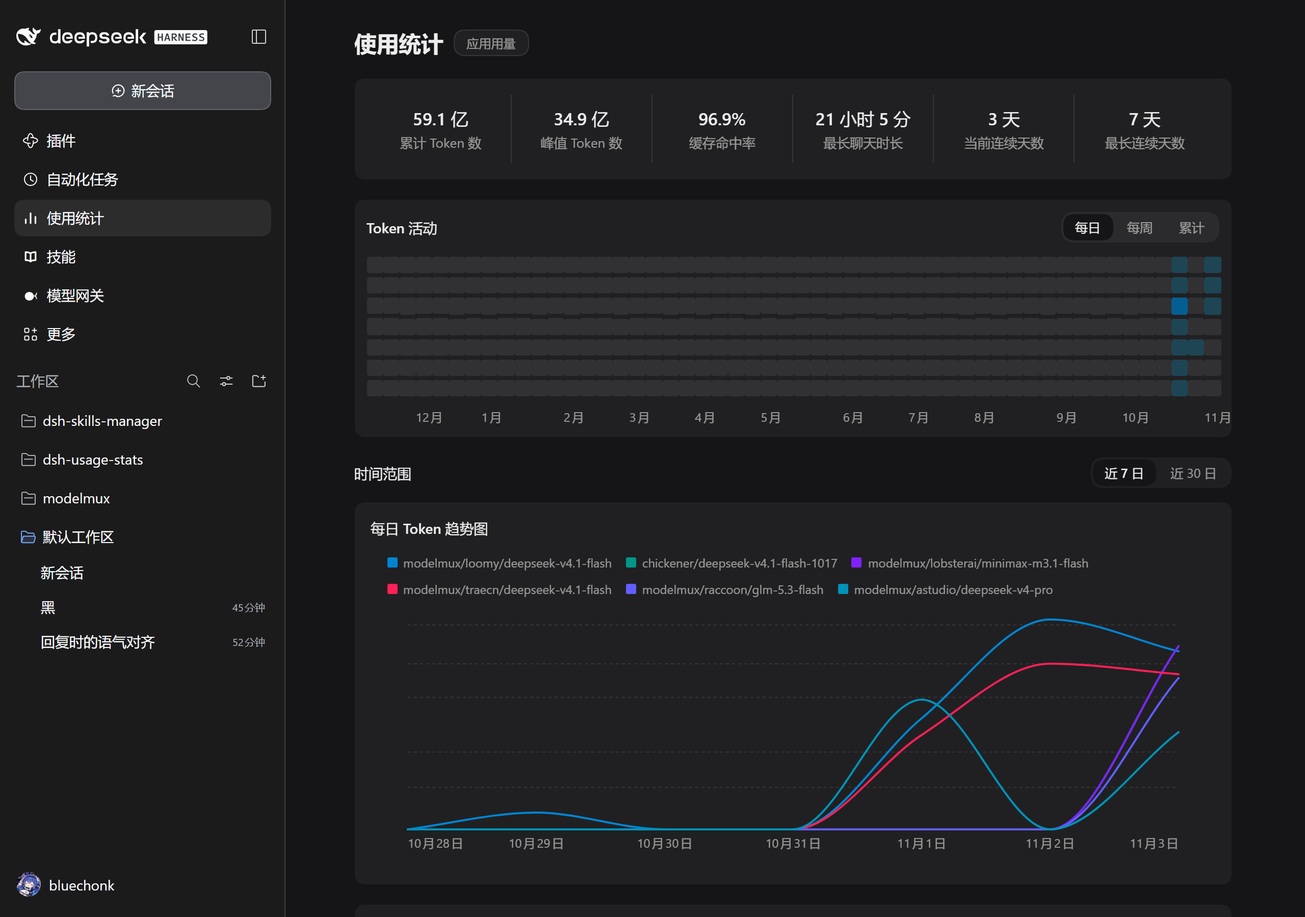
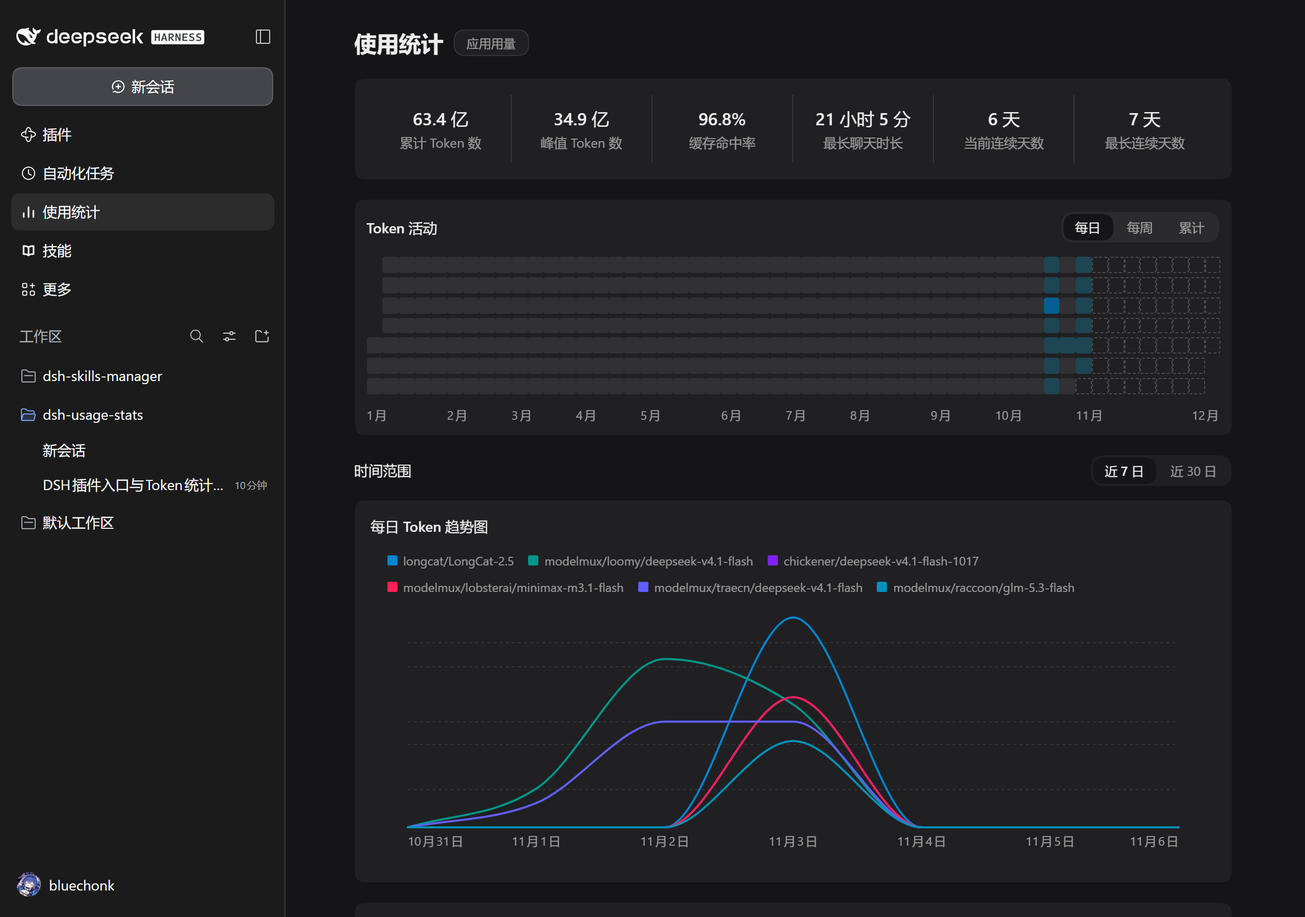
feat(ui): 热力图改为自然年 1–12 月布局，未到日期走虚线占位 (#9)
## 为什么

热力图此前是「滚动 52 周」窗口，末列对齐当前周。11 月打开时图表右端停在 11 月，看起来像一张 11–11 的图，读不出「这一年到 12 月还有大半没走完」；且窗口随当天滚动，同一个月里月份标签会整体平移，跨月时左侧再裁掉一段，位置不稳定。

未来日期（今年今天之后）此前与「有用量为 0 的已过日期」渲染完全相同：同一个实心灰格、同样可悬停。两者语义完全不同——一个是还没发生，一个是真的没用量——视觉上却无法区分。

## 改了什么

- `hmColumnsOf`：口径由「末周对齐当前周、回溯 52 周」改为「`1/1` 所在周日起到 `12/31` 所在周止」，列数随年份 52~54，左端恒为 1 月、右端恒为 12 月。每格新增 `inYear`（是否属于当年）与 `future`（是否还没到）两个标记；年外日不参与统计。周数按整周取整计算，避免跨 DST 的毫秒差把 52 算成 52.99 丢一列。
- `hmRenderOf`：格状态分 `past` / `future` / `out` 三态。每日档逐格判未来，每周/累计档按整列判——列内只要还有未来日就整列走虚线，逐格虚线会把柱子打碎成看起来像坏数据的锯齿。未来格不带色阶、不弹卡片。
- `HeatmapCard`：网格与月份行的 `gridTemplateColumns` 按实际列数内联下发（CSS 的 `repeat(52, …)` 退回首帧占位）；键盘游标默认位置由固定偏移 `51*7 + 星期几` 改为在列阵里查「今天」的真实索引，年历布局下今天的位置逐月变化，固定偏移会指到 1 月附近。
- `hmMonthLabelsOf`：锚点跳过不属当年的日子；整周年外的列并入上一段，跨年尾列不会另起一个「1月」。
- CSS：新增 `--dus-hmfuture`（深浅两档）与 `.dus-hmCellFuture`（如虚线空心、不参与悬停放大）、`.dus-hmCellOut`（`visibility:hidden` 只占位）。

## 顺带修的 bug

每周/累计档的整列 tooltip 原本锚定列内第 7 格（周六），当周还没到周六时会把「本周六」当成数据结束日，报出一个未来日期。改为锚定列内最后一个「已到」的当年日。

## 验证

- `npm run check` 通过；`npm test` 166 项全绿（原 163 项，热力图相关断言按新年历口径重写，新增渲染冒烟锁住「未来格虚线 / 已过格填色 / 年外格不画」三态）。
- dsh web 真机核对（临时 profile + agent-browser）：月份标签为 `1月|2月|…|12月` 共 11 个分隔、网格 53 列（2026 年），未来格 55 个、年外格 6 个；未来格 `border-top-style: dashed`、背景透明，已过格带色阶。每日/每周/累计三档、深浅两主题均逐一目检。
- 文档三张截图按新热力图重拍。

diff --git a/lib/client.js b/lib/client.js
@@ -77,7 +77,7 @@ window.__ModuleLoader__.load({
         heatmapModeDaily: "每日",
         heatmapModeWeekly: "每周",
         heatmapModeTotal: "累计",
-        heatmapAriaLabel: "Token 活动热力图，最近 52 周，共 {days} 天有用量。用 ← → 切换周、↑ ↓ 切换日。",
+        heatmapAriaLabel: "Token 活动热力图，{year} 年 1 月至 12 月，共 {days} 天有用量。用 ← → 切换周、↑ ↓ 切换日。",
         heatmapTooltipDay: "{date} · {tokens} tokens · {turns} 轮消息",
         heatmapTooltipWeek: "周 {start} 起",
         heatmapTooltipTotal: "累计 {date} 起",
@@ -178,7 +178,7 @@ window.__ModuleLoader__.load({
         heatmapModeDaily: "Daily",
         heatmapModeWeekly: "Weekly",
         heatmapModeTotal: "Total",
-        heatmapAriaLabel: "Token activity heatmap, last 52 weeks, {days} days with usage. Use left and right arrows for weeks, up and down for days.",
+        heatmapAriaLabel: "Token activity heatmap, January to December {year}, {days} days with usage. Use left and right arrows for weeks, up and down for days.",
         heatmapTooltipDay: "{date} · {tokens} tokens · {turns} turns",
         heatmapTooltipWeek: "Week of {start}",
         heatmapTooltipTotal: "Total since {date}",
@@ -305,6 +305,8 @@ window.__ModuleLoader__.load({
         // 热力图五档：蓝 × 空格子底（ZCode 浅色档：sky-400 混合 0/24/42/62/78%）
         // 0 档 = 空格子底色：必须与卡片背景有可见反差，否则整张网格「消失」
         "--dus-hm0:rgba(0,0,0,.05);" +
+        // 未到的日子只用虚线勾轮廓：给填充色会与「有量但为 0 档」混淆，也给不出「还没发生」的语义
+        "--dus-hmfuture:rgba(0,0,0,.16);" +
         "--dus-hm1:color-mix(in oklab, oklch(74.6% .16 232.661) 24%, var(--dus-hm0));" +
         "--dus-hm2:color-mix(in oklab, oklch(74.6% .16 232.661) 42%, var(--dus-hm0));" +
         "--dus-hm3:color-mix(in oklab, oklch(74.6% .16 232.661) 62%, var(--dus-hm0));" +
@@ -318,6 +320,7 @@ window.__ModuleLoader__.load({
         // 热力图五档：蓝 × 空格子底（ZCode 深色档：sky-500/600 混合 18/36/58/82%）
         // 0 档 = 空格子底色：深色下取「比卡片背景略亮」的灰，保证网格轮廓可见
         "--dus-hm0:rgba(255,255,255,.075);" +
+        "--dus-hmfuture:rgba(255,255,255,.20);" +
         "--dus-hm1:color-mix(in srgb, oklch(68.5% .169 237.323) 18%, var(--dus-hm0));" +
         "--dus-hm2:color-mix(in srgb, oklch(68.5% .169 237.323) 36%, var(--dus-hm0));" +
         "--dus-hm3:color-mix(in srgb, oklch(58.8% .158 241.966) 58%, var(--dus-hm0));" +
@@ -359,7 +362,8 @@ window.__ModuleLoader__.load({
       // 焦点环（v0.2.0 §6）：键盘可达面显式可见，不依赖 UA 默认（按钮 border:0 时各浏览器表现不一）
       ".dus-pill:focus-visible,.dus-btnOutline:focus-visible,.dus-hmWrap:focus-visible,.dus-chartWrap:focus-visible{outline:2px solid var(--dus-c1);outline-offset:2px}",
       ".dus-pill:focus-visible{border-radius:999px}",
-      // —— A2 热力图（52 列 minmax(0,1fr) 等分容器宽度，任何方向不出滚动条）——
+      // —— A2 热力图（当年 1–12 月；列数 52~54 随年份变化，minmax(0,1fr) 等分容器宽度，不出滚动条）——
+      // 模板由组件内联给出，CSS 里的 52 只是首帧兜底占位。
       ".dus-hmWrap{position:relative;border-radius:8px}",
       ".dus-hmGrid{display:grid;grid-template-columns:repeat(52,minmax(0,1fr));gap:0 2px}",
       ".dus-hmCol{display:flex;flex-direction:column;gap:4px;min-width:0}",
@@ -367,11 +371,16 @@ window.__ModuleLoader__.load({
       // 无描边（与 ZCode 一致：纯色块）；border 保留 1px transparent 作占位，防有/无数据时尺寸跳动
       ".dus-hmCell{aspect-ratio:1;width:100%;min-width:0;border-radius:3px;border:1px solid transparent;display:block;transition:transform .08s}",
       ".dus-hmCell:hover{transform:scale(1.12);border-color:var(--dus-fgsubtle)}",
+      // 未到的日子：空心虚线占位——与已过月份的实心色块一眼可分，且不参与悬停放大
+      ".dus-hmCellFuture{background:transparent;border:1px dashed var(--dus-hmfuture)}",
+      ".dus-hmCellFuture:hover{transform:none;border-color:var(--dus-hmfuture)}",
+      // 年外格（1/1 之前、12/31 之后的周内尾巴）只保留占位撑住网格，不画
+      ".dus-hmCellOut{background:transparent;border-color:transparent;visibility:hidden}",
       // 键盘游标格描边：只有「有数据的日子」才弹卡片，落在空日期上若无标记就完全没反馈
       ".dus-hmCur{outline:2px solid var(--dus-c1);outline-offset:1px}",
       ".dus-hmMonths{display:grid;grid-template-columns:repeat(52,minmax(0,1fr));gap:0 2px;margin-top:12px}",
-      // 月份标签按文字自然宽度绘制、不做裁剪：末月通常只剩 1 列（当前周），盒宽放不下「11月」，
-      // 用 ellipsis 会被截成「1..」；末月改为右对齐让文字向左生长，任何卡宽下都不会越出卡片。
+      // 月份标签按文字自然宽度绘制、不做裁剪：整月的一段列宽足够放下「12月」，末月再右对齐兜底，
+      // 保证任何卡宽下文字都向左生长、不会越出卡片。
       ".dus-hmMonths span{min-width:0;overflow:visible;white-space:nowrap;font-size:12px;color:var(--dus-fgsubtle)}",
       ".dus-hmMonths .dus-hmMonthEnd{text-align:right}",
       // —— A3 时间范围行（margin-bottom:-6px：20 栅格 gap 视觉收成 14）——
@@ -583,48 +592,86 @@ window.__ModuleLoader__.load({
       return Math.min(4, Math.max(1, Math.ceil((v / max) * 4)));
     }
 
-    /** 52 自然周列（周日起始、末周对齐当前周）；days=API 逐日数组，缺失日期按 0。 */
+    /** 当年自然周列（周日起始；1/1 与 12/31 所在周整周铺满，周内跨年的日子标记为年外格）。
+     *  口径是「1–12 月」而不是滚动 52 周：左端恒为 1 月、右端恒为 12 月，月份位置不随当天漂移。
+     *  days=API 逐日数组，缺失日期按 0。 */
     function hmColumnsOf(days) {
       const byDate = new Map();
       for (const rec of (Array.isArray(days) ? days : [])) {
         if (rec === null || typeof rec !== "object" || typeof rec.date !== "string") continue;
         byDate.set(rec.date, { tokens: Number(rec.tokens) || 0, turns: Number(rec.turns) || 0 });
       }
-      const today = new Date();
-      const today0 = new Date(today.getFullYear(), today.getMonth(), today.getDate());
-      const endSunday = addDays(today0, -today0.getDay()); // 本周周日
-      const start = addDays(endSunday, -51 * 7);           // 52 个自然周
+      const now = new Date();
+      const today0 = new Date(now.getFullYear(), now.getMonth(), now.getDate());
+      const year = today0.getFullYear();
+      const jan1 = new Date(year, 0, 1);
+      const dec31 = new Date(year, 11, 31);
+      const start = addDays(jan1, -jan1.getDay());        // 含 1/1 那周的周日
+      const lastSunday = addDays(dec31, -dec31.getDay()); // 含 12/31 那周的周日
+      // 周数按整周取整：跨 DST 的 ms 差会偏 ±1h，直接除会算成 52.99 周而丢一列
+      const weeks = Math.round((lastSunday.getTime() - start.getTime()) / (7 * DAY_MS)) + 1;
       const cols = [];
-      for (let w = 0; w < 52; w++) {
+      for (let w = 0; w < weeks; w++) {
         const col = [];
         for (let k = 0; k < 7; k++) {
           const d = addDays(start, w * 7 + k);
-          const rec = byDate.get(dateKey(d));
-          col.push({ date: d, rec: rec !== undefined, tokens: rec ? rec.tokens : 0, turns: rec ? rec.turns : 0 });
+          const inYear = d.getFullYear() === year;
+          const rec = inYear ? byDate.get(dateKey(d)) : undefined; // 年外日不参与统计
+          col.push({
+            date: d,
+            inYear,
+            future: inYear && d.getTime() > today0.getTime(),
+            rec: rec !== undefined,
+            tokens: rec ? rec.tokens : 0,
+            turns: rec ? rec.turns : 0,
+          });
         }
         cols.push(col);
       }
       return cols;
     }
 
-    /** 月份标签：与列同宽的 span 网格行；锚点=周内首个 1 号，否则首个有记录日，否则周日；
-     *  相邻同月并 span；超 12 个月从头置空。 */
+    /** 月份标签：与列同宽的 span 网格行；锚点=周内首个 1 号 > 首个有记录日 > 首个当年日；
+     *  相邻同月并 span，整周年外的列并进上一段以保持 span 总和=列数。 */
     function hmMonthLabelsOf(cols, t) {
       const labels = [];
       for (const col of cols) {
-        const anchor = col.find((c) => dateKey(c.date).endsWith("-01")) || col.find((c) => c.rec) || col[0];
+        // 年外日不当锚点：12/31 之后那一周会把「明年 1 月」写进今年
+        const days = col.filter((c) => c.inYear !== false);
+        if (days.length === 0) {
+          const last = labels[labels.length - 1];
+          if (last !== undefined) last.span += 1;
+          else labels.push({ key: "", label: "", span: 1 });
+          continue;
+        }
+        const anchor = days.find((c) => dateKey(c.date).endsWith("-01")) || days.find((c) => c.rec) || days[0];
         const mk = dateKey(anchor.date).slice(0, 7);
         const last = labels[labels.length - 1];
         if (last && last.key === mk) last.span += 1;
         else labels.push({ key: mk, label: tr(t, "fmtMonth", { month: Number(mk.slice(5, 7)) }), span: 1 });
       }
-      const hidden = Math.max(0, labels.length - 12);
-      labels.forEach((l, i) => { if (i < hidden) l.label = ""; });
       return labels;
     }
 
+    /** 聚合列 tooltip 的日子锚点：列内最后一个「已到」的当年日。
+     *  当周/当年最后一列的第 7 格往往还没到，直接取 col[6] 会让 tooltip 报出未来日期。 */
+    function hmColEndOf(col) {
+      const arrived = col.filter((c) => c.inYear !== false && c.future !== true);
+      if (arrived.length > 0) return arrived[arrived.length - 1].date;
+      const days = col.filter((c) => c.inYear !== false);
+      return (days.length > 0 ? days[days.length - 1] : col[col.length - 1]).date;
+    }
+
+    /** 格状态：out=年外格不画（只占位）；future=未到的日子走虚线；past=按色阶填。
+     *  是否「未到」由调用方判定：每日档逐格判，聚合档按整列判——周内半未来的格子仍属于本周柱子，
+     *  逐格虚线会把柱子打碎成脏数据。 */
+    function hmCellStateOf(cell, future) {
+      if (cell.inYear === false) return "out";
+      return future ? "future" : "past";
+    }
+
     /** 热力图渲染定义：每日=逐日格 tooltip；每周/累计=列底对齐色块柱
-     *  filledRows=ceil(v/max×7)（钳 [1,7]）+ 整列 tooltip（末列日 + 周合计/累计）。 */
+     *  filledRows=ceil(v/max×7)（钳 [1,7]）+ 整列 tooltip（列末当年日 + 周合计/累计）。 */
     function hmRenderOf(cols, mode, t) {
       let dayMax = 0;
       for (const col of cols) for (const c of col) if (c.tokens > dayMax) dayMax = c.tokens;
@@ -643,8 +690,10 @@ window.__ModuleLoader__.load({
       const isWeekly = mode === "weekly";
       const isTotal = mode === "total";
       const colVals = isWeekly ? weekVals : isTotal ? cumVals : null;
-      const colMax = isWeekly ? Math.max(0, ...weekVals) : isTotal ? (cumVals[51] || 0) : 0;
+      const colMax = isWeekly ? Math.max(0, ...weekVals) : isTotal ? (cumVals[cumVals.length - 1] || 0) : 0;
       return cols.map((col, w) => {
+        // 年外格不投票：跨年尾列只要当年日全在未来，整列就是「未到」
+        const colFuture = col.filter((c) => c.inYear !== false).every((c) => c.future === true);
         let colTitle = "";
         let defs;
         if (isWeekly || isTotal) {
@@ -652,14 +701,22 @@ window.__ModuleLoader__.load({
           const turns = isTotal ? cumTurns[w] : weekTurns[w]; // 累计档配累计轮数：两个数口径必须一致
           const filled = val <= 0 || colMax <= 0 ? 0 : Math.min(7, Math.max(1, Math.ceil((val / colMax) * 7)));
           const lvl = hmLevel(val, colMax);
-          colTitle = fmtFullDayCn(col[6].date, t) + "\n" + fmtCompact(val, true, t) + " tokens · " + tr(t, "fmtTurns", { count: turns });
-          defs = col.map((c, i) => ({ lvl: i >= 7 - filled ? lvl : 0, has: i >= 7 - filled && val > 0, title: "" }));
+          colTitle = colFuture ? "" : fmtFullDayCn(hmColEndOf(col), t) + "\n" + fmtCompact(val, true, t) + " tokens · " + tr(t, "fmtTurns", { count: turns });
+          defs = col.map((c, i) => {
+            const st = hmCellStateOf(c, colFuture);
+            const filledRow = i >= 7 - filled && val > 0;
+            return { state: st, lvl: st === "past" ? lvl : 0, has: st === "past" && filledRow, title: "" };
+          });
         } else {
-          defs = col.map((c) => ({
-            lvl: hmLevel(c.tokens, dayMax),
-            has: c.tokens > 0,
-            title: c.rec ? fmtFullDayCn(c.date, t) + "\n" + fmtCompact(c.tokens, true, t) + " tokens · " + tr(t, "fmtTurns", { count: c.turns }) : "",
-          }));
+          defs = col.map((c) => {
+            const st = hmCellStateOf(c, c.future === true);
+            return {
+              state: st,
+              lvl: st === "past" ? hmLevel(c.tokens, dayMax) : 0,
+              has: st === "past" && c.tokens > 0,
+              title: c.rec ? fmtFullDayCn(c.date, t) + "\n" + fmtCompact(c.tokens, true, t) + " tokens · " + tr(t, "fmtTurns", { count: c.turns }) : "",
+            };
+          });
         }
         return { title: colTitle, cells: defs };
       });
@@ -1084,17 +1141,28 @@ window.__ModuleLoader__.load({
       { value: "weekly", key: "heatmapModeWeekly" },
       { value: "total", key: "heatmapModeTotal" },
     ];
-    const HM_CELLS = 52 * 7; // 52 周 × 7 天：键盘游标的线性长度（SPEC §6）
     // 图表键盘导航：只认这六个键，认到就接管（preventDefault + 落游标），其余键（含 Tab）一律放行。
     const NAV_KEYS = ["ArrowLeft", "ArrowRight", "ArrowUp", "ArrowDown", "Home", "End"];
-    // 聚焦后游标默认落「今天」那格（末列 51 × 7 + 星期几）——否则第一下方向键要从一年前起步，
-    // 还容易在边界上看起来像没反应。
-    const todayFlatOf = () => 51 * 7 + new Date().getDay();
+
+    /** 热力格类名：状态决定底样式（past=色块、future=虚线、out=不画），游标态叠加描边。 */
+    function hmCellClassOf(cd, isCursor) {
+      const base = "dus-hmCell"
+        + (cd.state === "out" ? " dus-hmCellOut" : cd.state === "future" ? " dus-hmCellFuture" : "")
+        + (cd.has ? " dus-hmCellUsed" : "");
+      return base + (isCursor ? " dus-hmCur" : "");
+    }
 
     function HeatmapCard(props) {
       const cols = react.useMemo(() => hmColumnsOf(props.days), [props.days]);
       const render = react.useMemo(() => hmRenderOf(cols, props.mode, props.t), [cols, props.mode, props.t]);
       const months = react.useMemo(() => hmMonthLabelsOf(cols, props.t), [cols, props.t]);
+      // 键盘游标默认落「今天」那格：当年布局下今天的位置随年份漂移，从列阵里查而不是算固定偏移，
+      // 否则第一下方向键会从 1 月起跳。找不到（异常数据）退回首格。
+      const todayFlat = react.useMemo(() => {
+        const key = dateKey(new Date());
+        const flat = cols.flat().findIndex((c) => dateKey(c.date) === key);
+        return flat < 0 ? 0 : flat;
+      }, [cols]);
       const [hover, setHover] = react.useState(null);   // {flat,x,y,cw,ch}
       // 键盘游标只存 flat 索引：像素锚点在渲染时现算，窗口缩放/跨天/换档后不会指向脏位置
       const [cursor, setCursor] = react.useState(null);
@@ -1103,7 +1171,7 @@ window.__ModuleLoader__.load({
       // 拿它当天数会读到 7 倍
       const usedDays = react.useMemo(() => (Array.isArray(props.days) ? props.days : [])
         .filter((d) => d !== null && typeof d === "object" && Number(d.tokens) > 0).length, [props.days]);
-      // 锚点一律从真实 DOM rect 取：52 列 1fr 等分下「按格子尺寸推算」会因 gap/取整漂移
+      // 锚点一律从真实 DOM rect 取：1fr 等分下「按格子尺寸推算」会因 gap/取整漂移
       const anchorOfFlat = (flat) => {
         const wrap = wrapRef.current;
         if (wrap === null) return null;
@@ -1122,8 +1190,8 @@ window.__ModuleLoader__.load({
       };
       const onKeyDown = (e) => {
         if (NAV_KEYS.indexOf(e.key) === -1) return; // 其它键（含 Tab）放行
-        const base = cursor !== null ? cursor : hover !== null ? hover.flat : todayFlatOf();
-        const next = cursorStepOf(base, e.key, HM_CELLS, 7);
+        const base = cursor !== null ? cursor : hover !== null ? hover.flat : todayFlat;
+        const next = cursorStepOf(base, e.key, cols.length * 7, 7);
         if (anchorOfFlat(next) === null) return; // 网格未渲染时不动
         e.preventDefault();
         setCursor(next);
@@ -1165,24 +1233,24 @@ window.__ModuleLoader__.load({
           ref: wrapRef,
           tabIndex: 0,
           role: "img",
-          "aria-label": tr(props.t, "heatmapAriaLabel", { days: usedDays }),
+          "aria-label": tr(props.t, "heatmapAriaLabel", { year: new Date().getFullYear(), days: usedDays }),
           onKeyDown,
           onBlur: () => setCursor(null),
           onMouseLeave: () => setHover(null),
         },
-          el("div", { className: "dus-hmGrid" },
+          el("div", { className: "dus-hmGrid", style: { gridTemplateColumns: "repeat(" + cols.length + ",minmax(0,1fr))" } },
             render.map((colDef, w) => el("div", { key: w, className: "dus-hmCol" },
               colDef.cells.map((cd, k) => el("i", {
                 key: k,
                 "data-hm": w * 7 + k,
-                className: (cd.has ? "dus-hmCell dus-hmCellUsed" : "dus-hmCell")
-                  + (cursor !== null && cursor === w * 7 + k ? " dus-hmCur" : ""),
-                style: { background: "var(--dus-hm" + cd.lvl + ")" },
-                onMouseEnter: onCellEnter(w * 7 + k),
+                className: hmCellClassOf(cd, cursor !== null && cursor === w * 7 + k),
+                // 背景只给「已过/今天」的格子：未来格走 CSS 虚线，年外格不画
+                style: cd.state === "past" ? { background: "var(--dus-hm" + cd.lvl + ")" } : undefined,
+                onMouseEnter: cd.state === "past" ? onCellEnter(w * 7 + k) : undefined,
               })),
             )),
           ),
-          el("div", { className: "dus-hmMonths" },
+          el("div", { className: "dus-hmMonths", style: { gridTemplateColumns: "repeat(" + cols.length + ",minmax(0,1fr))" } },
             months.map((l, i) => el("span", {
               key: i,
               className: i === months.length - 1 ? "dus-hmMonthEnd" : undefined,

diff --git a/README_EN.md b/README_EN.md
@@ -28,7 +28,7 @@ The loader row id and the client module id are **not** shared: the `id` in `cord
 |---|---|
 | Title row | "Usage Stats" + an "App Usage" pill badge |
 | Six-cell summary strip | Total Tokens / Peak Tokens / Cache Hit Rate / Longest Chat / Current Streak / Longest Streak; when the width is too narrow the **whole cell wraps** instead of truncating the label |
-| Token activity | Heatmap cells for 52 calendar weeks (starting Sunday); pills in the top-right switch between Daily / Weekly / Total |
+| Token activity | Heatmap cells covering January to December of the current year (52–54 calendar weeks, starting Sunday); pills in the top-right switch between Daily / Weekly / Total. Days that have not arrived yet are drawn as dashed outlines |
 | Time range | Pills switch between Last 7 Days / Last 30 Days, affecting **only the trend chart below** |
 | Daily token trend | Only the top 6 models by usage in the selected range get a coloured line, drawn with monotone cubic interpolation; the legend is display-only and matches the lines and tooltip rows |
 | Model usage | Donut chart on the left (total tokens in the centre) plus a per-model list on the right (name + share + token count); the list shows no hover text, and the hover card only appears on donut segments |
@@ -75,7 +75,7 @@ The blocks use different scopes — do not mix them up:
 | Data | Scope | Affected by "Last 7 Days / Last 30 Days" |
 | --- | --- | --- |
 | Six-cell summary strip | All time | No |
-| Token activity heatmap | Last 52 calendar weeks | No |
+| Token activity heatmap | January 1 to December 31 of the current year (52–54 calendar weeks) | No |
 | Daily token trend | Last 7 days / Last 30 days | Yes |
 | Model usage donut | All time | No |
 
@@ -220,7 +220,7 @@ See [docs/设计与验证.md](docs/设计与验证.md) for the design and verifi
 
 ## Known limitations
 
-- The heatmap always looks back 52 calendar weeks; older usage only counts towards the all-time figures such as the summary strip.
+- The heatmap spans the current calendar year from January to December, so only this year's usage is shown; days that have not arrived yet (for example December while it is still November) are drawn as dashed placeholders to distinguish them from the solid cells of elapsed months. Usage from earlier years only counts towards the all-time figures such as the summary strip.
 - Longest chat time is bucketed per (session, day) and takes the extreme, so cross-day chats are cut at day boundaries — an approximation.
 - The trend chart draws only the top 6 models by usage in the selected range (legend, lines and tooltip rows stay in sync); the tooltip notes "N more models not listed" — N counts the models with usage on **that day** that are not drawn — and its daily total still includes every model.
 - The cache hit rate only covers cache reads and uncached input, excluding output and reasoning.

diff --git a/docs/设计与验证.md b/docs/设计与验证.md
@@ -7,7 +7,7 @@
 在 DSH 侧边栏新增「使用统计」独立模块（与「插件」「自动化任务」同级），呈现本机 Token 用量：
 
 - 六格摘要条（累计 / 峰值 / 缓存命中率 / 最长聊天时长 / 当前连续天数 / 最长连续天数）
-- GitHub 式 Token 活动热力图（每日 / 每周 / 累计三档）
+- GitHub 式 Token 活动热力图（每日 / 每周 / 累计三档；自然年 `1月`–`12月` 布局）
 - 按模型的趋势折线（近 7 日 / 近 30 日）
 - 模型用量环形图 + 模型列表（全部用量口径）
 
@@ -107,12 +107,13 @@ ZCode 是 Electron 应用（`%LOCALAPPDATA%\Programs\ZCode`），自带 `resourc
 
 - 深浅两主题逐项核对：摘要条六格、热力网格可见性、六色图例、环形图中心与摘要条口径一致、页脚唯一按钮、无控制台错误。
 - 趋势图按区间用量只画前 6 个模型：图例 6 项、折线 6 条、明细行与图例一一对应；悬停卡片的「另有 N 个模型未列出」按当天 `byModel` 统计（同一区间的不同日期会给出不同的 N）。
-- 热力图末月标签完整显示（「11月」不再被省略号截成「1..」）；月标签按文字自然宽度绘制，末月右对齐向左生长。
+- 热力图按自然年铺满 `1月`–`12月`（列数 52~54，随年份变），左端恒 1 月、右端恒 12 月；未到的日子（今年今天之后，如 12 月）走空心虚线占位，与已过月份的实心色块一眼可分。每月/累计档按整列判未来：整列里还有未来日就整列虚线，逐格虚线会把柱子打碎。月标签按文字自然宽度绘制、末月右对齐向左生长，任何卡宽都不截断不越界。
+- 热力图锚点不落未来：每周/累计档的整列 tooltip 取列内最后一个「已到」的当年日，不再把本周六当成数据结束日；跨年尾列并入上一段月份标签，右端不会在当年图里顶出「1月」。
 - 模型用量右侧列表无悬停文本：行上没有原生 `title`，行内也不弹卡片，悬停卡片只保留在环形扇区上。
 - 面板注册在侧边栏：导航行与「插件」「自动化任务」同级，设置面板里不再有「使用统计」。
 - 插件面板：「插件 → 已安装」列表里 usage-stats 行显示 `icon.svg`（包根 manifest 的 `icon` 字段；缺字段时是默认占位图）。
 
-截图见 [images/](images/)（2026-11-03 重拍，1280×900 @2x）。
+截图见 [images/](images/)（2026-11-06 重拍，1280×900 @2x）。
 
 ## 五、代码评审记录
 

diff --git a/CHANGELOG.md b/CHANGELOG.md
@@ -6,6 +6,22 @@
 
 **版本策略**：自用插件，走 `0.1.x` 迭代——接口与数据结构未稳定，不做兼容性承诺；`0.2.0` 留给不兼容的界面改版。不发布到 npm，只经 GitHub 链接安装。**每个发布版本只打一个 GitHub tag，不单独建 GitHub Release**（版本以 tag + 本文件为准）；**版本号只在发版时 bump**（改代码不动版本号），杜绝「有版本号没 tag」或「面板版本与 tag 对不上」的空档。
 
+## 0.1.4
+
+### 调整
+
+- **热力图改为自然年 1–12 月布局**：从「滚动 52 周」改为当年 `1/1`–`12/31` 所在整周，左端恒为 1 月、右端恒为 12 月，列数随年份 52~54。此前窗口末周对齐「当前周」，11 月看一眼会以为图表右端就是 11 月，实际上右端还会随当天往前滚动，月份位置每月漂移一次。
+- **未到的日子改用虚线占位**：未来日期（今年今天之后，如 12 月）不再画成与「有用量为 0 的日子」一模一样的实心灰格，改为空心虚线轮廓、不填色、不弹悬停卡片。每周/累计档按整列判：一列里只要还有未来日，整列走虚线——逐格虚线会把柱子打碎成看起来像坏数据的锯齿。`1/1` 之前与 `12/31` 之后的周内尾巴为年外格，只占位不画（`visibility:hidden`），也不参与统计。
+- **键盘游标与月份标签**：游标默认位置由固定偏移 `51×7 + 星期几` 改为在列阵里查「今天」的真实索引（年历布局下今天的位置逐月变化，固定偏移会指到 1 月附近）；月份标签的锚点跳过不属当年的日子，跨年尾列并入上一段，避免去年热力图右端顶出一个「1月」。
+
+### 修复
+
+- **聚合档 tooltip 报出未来日期**：每周/累计档的整列 tooltip 原本锚定列内第 7 格（周六），当周还没到周六时会把「本周六」当成数据结束日。改为锚定列内最后一个「已到」的当年日。
+
+### 文档
+
+- 三张截图按新热力图重拍（`1月`–`12月` 全月标签、12 月虚线占位），README / README_EN / `docs/设计与验证.md` 的热力图说明同步改写。
+
 ## 0.1.3
 
 ### 修复
